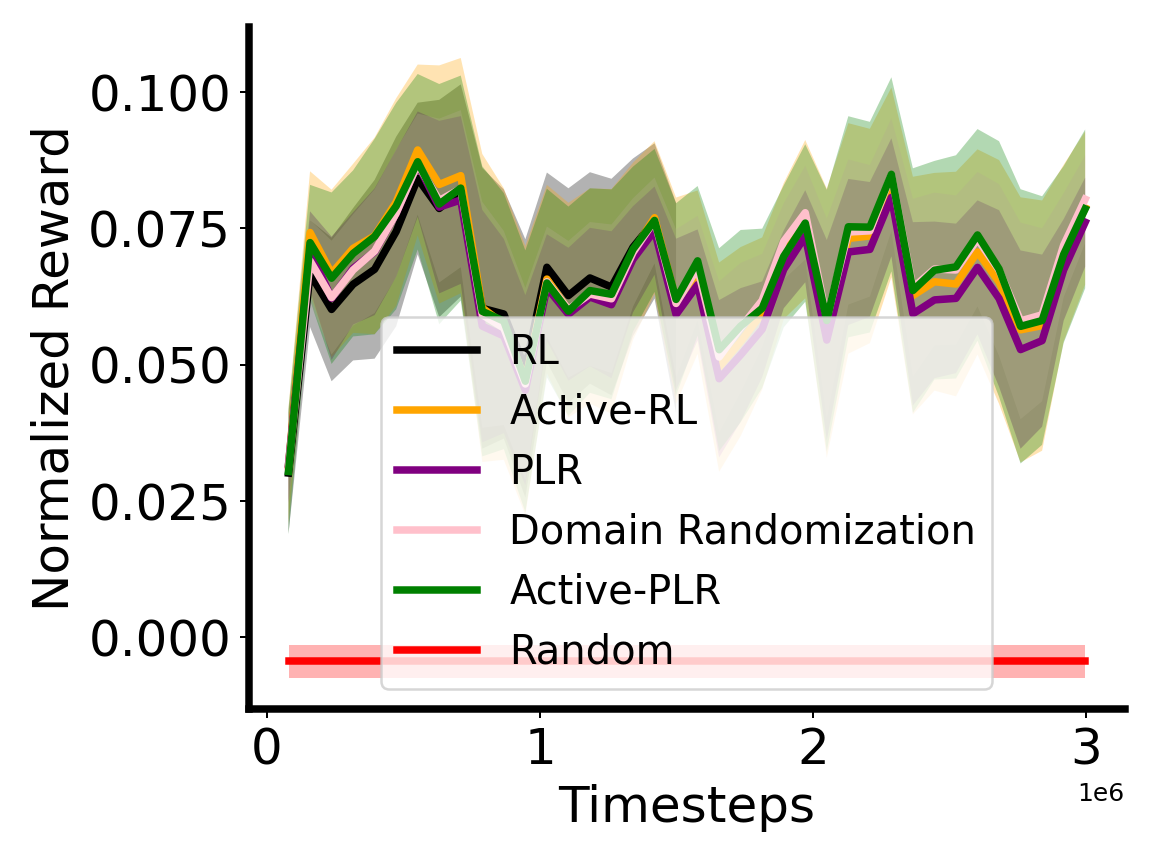
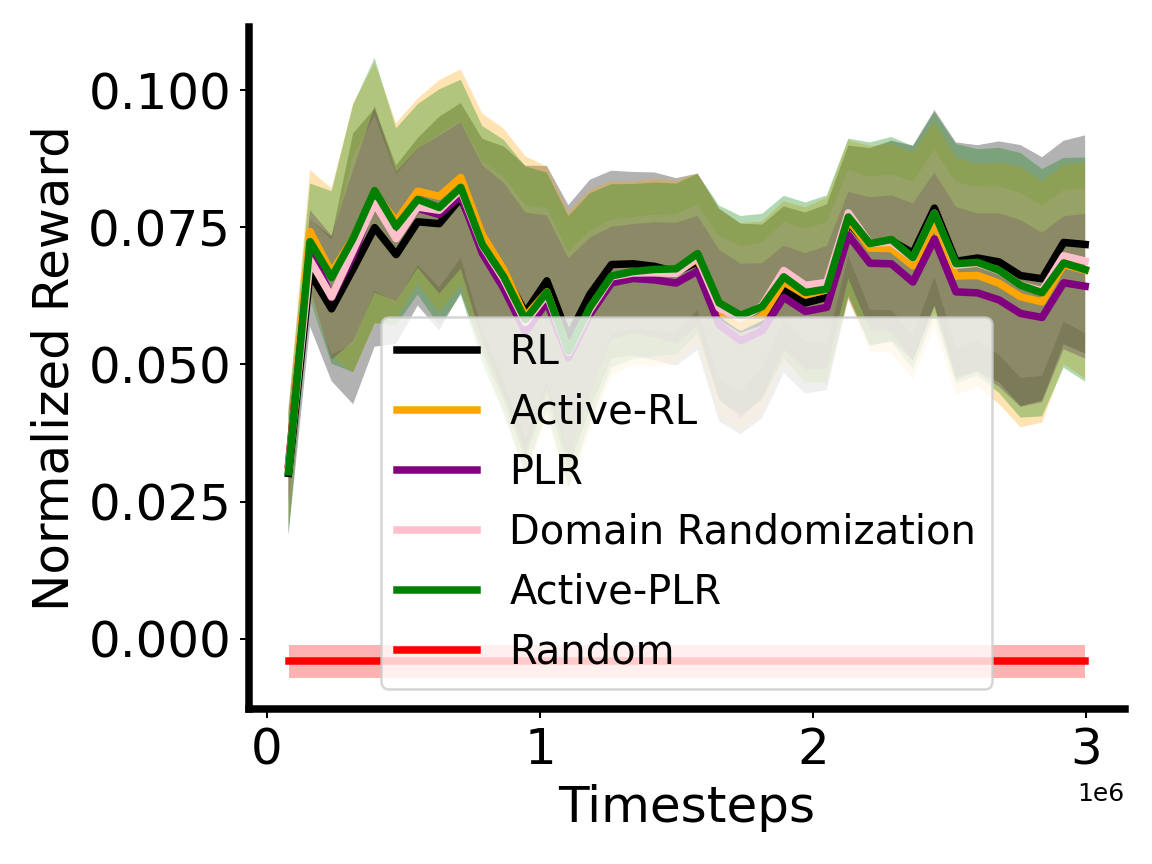
regenerate figures

diff --git a/writeup/graph.py b/writeup/graph.py
@@ -14,7 +14,7 @@ def graph(file,
           y_label="Reward",
           x_label="Timesteps",
           normalize=True):
-    plt.locator_params(axis='both', nbins=6)
+    plt.locator_params(axis='both', nbins=5)
     #xticks = [1000000 * i for i in range(5)]
     
     if out_file is None:
@@ -90,7 +90,7 @@ if __name__ == "__main__":
     comfort_violation_tags = [f"ray/tune/evaluation/custom_metrics/env_{i}_comfort_violation_time____mean" for i in range(0, 6)]
     rew_tags = [f"ray/tune/evaluation/custom_metrics/env_{i}_reward_mean_mean" for i in range(0, 6)]
     comfort_penalty_tags = [f"ray/tune/evaluation/custom_metrics/env_{i}_mean_comfort_penalty_mean" for i in range(0, 6)]
-    window_width = 3
+    window_width = 5
 
     for tag in avg_rew_tags + rew_tags:
         out_file = tag.split("/")[-1]
